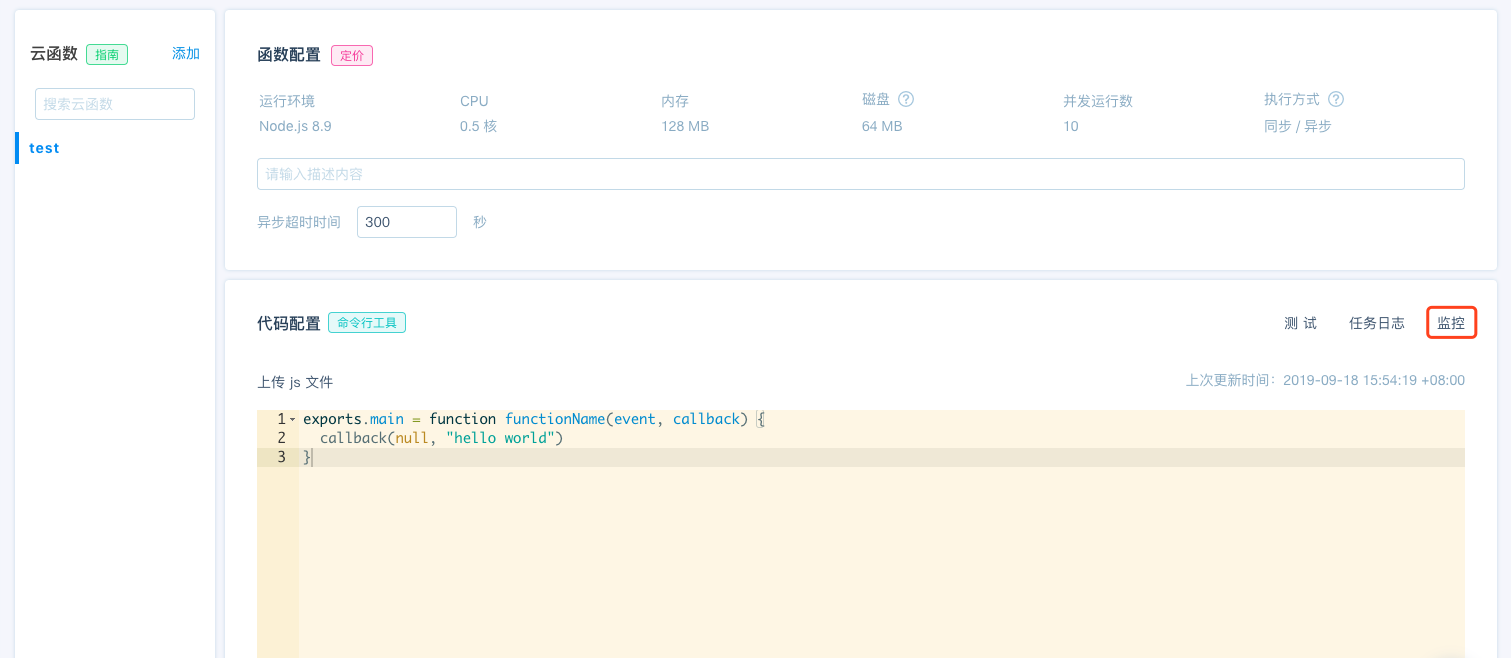
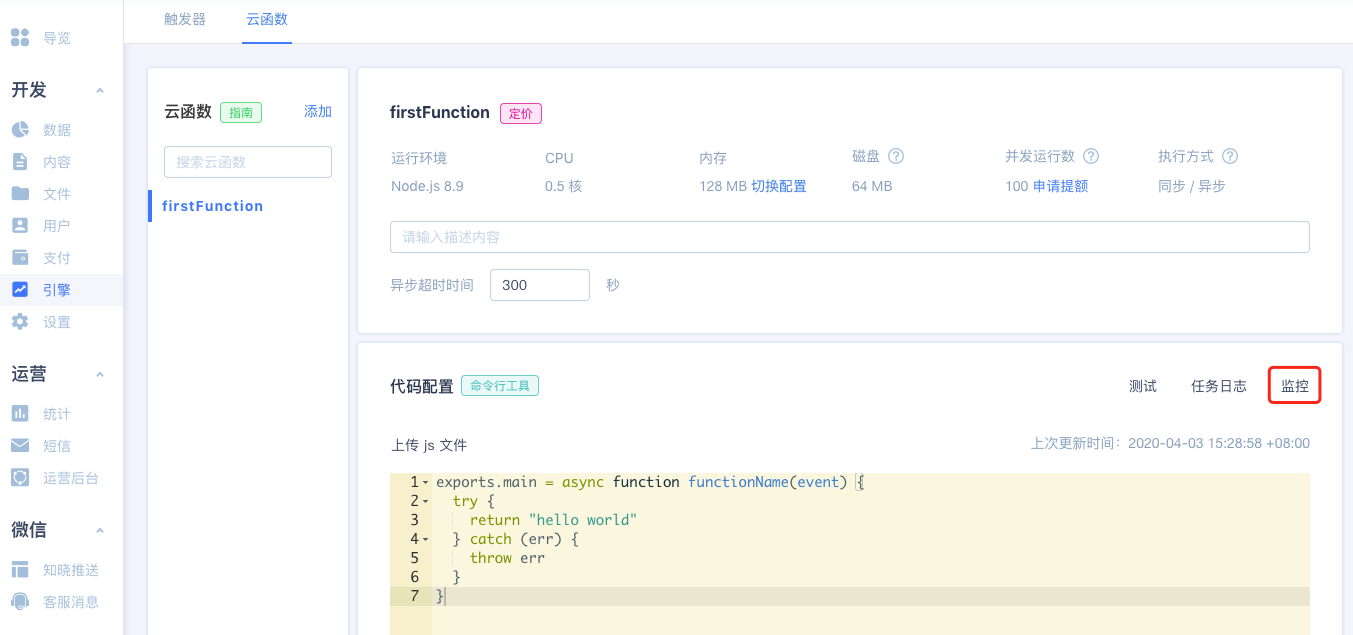
BAAS-6168 云函数快速上手优化，更新为最新的界面

diff --git a/cloud-function/node-sdk/start/quick-start.md b/cloud-function/node-sdk/start/quick-start.md
@@ -6,7 +6,7 @@
 
 1.如何创建和编写云函数：
 
-开发者可以登录到知晓云控制台，进入到**引擎-云函数**界面，知晓云提供了一个在线代码编辑器，你可以在上面编写你的云函数。目前编写云函数的渠道只有这里，后续我们会提供命令行功能上传云函数等渠道。
+开发者可以登录到知晓云控制台，进入到**引擎-云函数**界面，知晓云提供了一个在线代码编辑器，你可以在上面编写你的云函数。除了使用在线代码编辑器编写云函数，我们还提供了[命令行工具](/cloud-function/cli.md)等渠道，方便用户在本地编辑器编写云函数之后，将云函数文件上传到知晓云。
 
 创建完云函数后为其编写逻辑代码，目前支持的编程语言仅有 `Node.js`，后续我们也会增加对其它语言的支持。
 
@@ -24,17 +24,22 @@
 
 进入知晓云控制台，选择一个应用进入，依次点击「 引擎 」、「 云函數 」、「 添加 」。
 
-![进入云函数控制台面板](/images/cloud-function/dashboard-into.png)
+![首次进入云函数控制台面板](/images/cloud-function/dashboard-into1.png)
+![云函数控制台面板](/images/cloud-function/dashboard-into2.png)
 
-在弹出添加云函数模态框中，选择 `Hello world` 模板，函数命名为 `helloWorld`，点击确认，即可完成云函数的创建。
+在弹出添加云函数模态框中，选择 `Hello World` 模板，函数命名为 `helloWorld`，点击确认，即可完成云函数的创建。
 
 ![创建 hello world 函数](/images/cloud-function/dashboard-hello-world.png)
 
 创建好云函数后，在代码编辑器中，默认会添加以下一段代码，它的作用是当调用该方法后，函数会返回 'hello world'。
 
 ```js
-exports.main = function helloWorld(event, callback) {
-  callback(null, "hello world")
+exports.main = async function helloWorld(event) {
+  try {
+    return "hello world"
+  } catch (err) {
+    throw err
+  }
 }
 ```
 
@@ -44,7 +49,7 @@ exports.main = function helloWorld(event, callback) {
 云函数创建好后，就可以在你的微信小程序代码中，触发该函数了。在此之前，你得先下载我们的 JS SDK，导入项目并进行初始化，关于这块的内容，可以查看我们的 [JS SDK 文档](/js-sdk/README.md)。触发云函数的示例代码如下：
 
 ```js
-wx.BaaS.invokeFunction('helloWorld').then(res => {
+wx.BaaS.invoke('helloWorld').then(res => {
   console.log(res.data)  // 'hello world'
 })
 ```
@@ -58,22 +63,22 @@ wx.BaaS.invokeFunction('helloWorld').then(res => {
 修改云函数的代码如下：
 
 ```js
-exports.main = function getArticles(event, callback) {
-  let tableID = 212
-  let Article = new BaaS.TableObject(tableID)
-
-  Article.limit(100).find().then(res => {
-    callback(null, res.data.objects)
-  }, err => {
-    callback(err)
-  })
+exports.main = async function getArticles(event, callback) {
+  try {
+    const tableName = 'article'
+    const Article = new BaaS.TableObject(tableName)
+    const res = await Article.limit(100).find()
+    return res.data.objects
+  } catch (err) {
+    throw err
+  }
 }
 ```
 
 修改小程序中的代码：
 
 ```js
-wx.BaaS.invokeFunction('getArticles').then(res => {
+wx.BaaS.invoke('getArticles').then(res => {
   console.log(res.data) // articles
 })
 ```

diff --git a/dashboard/basic-services/cloud-function.md b/dashboard/basic-services/cloud-function.md
@@ -13,6 +13,7 @@
 ### 测试云函数
 
 ![测试云函数](/images/dashboard/basic-services/cloud-function-test.png)
+![测试云函数](/images/dashboard/basic-services/cloud-function-test2.png)
 
 知晓云提供了云函数测试功能，可以方便地调试您的代码。点击云函数面板右上角的「测试」按钮即可打开测试弹窗。
 
